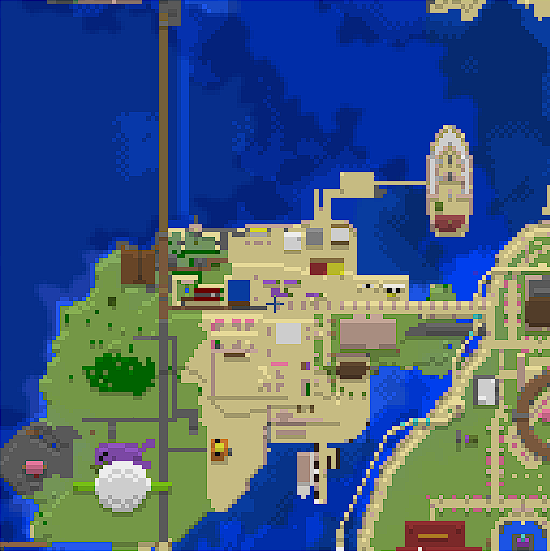
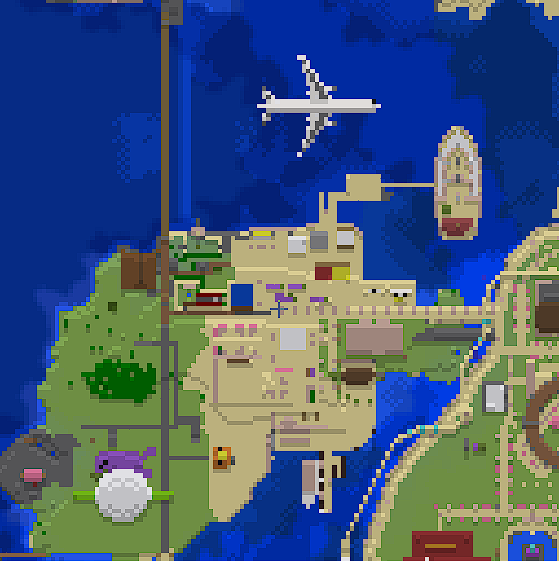
マップを更新

diff --git a/index.html b/index.html
@@ -58,7 +58,7 @@
     var mapVersion = "?ver=1"
     // マップの画像（事前に用意したスクショ画像）
     // 2枚のマップ画像を並べる
-    var image1 = L.imageOverlay('mapData/0_0.png?ver=1.1'+mapVersion, [[0, 0], [500, 500]]).addTo(map);
+    var image1 = L.imageOverlay('mapData/0_0.png?ver=1.2'+mapVersion, [[0, 0], [500, 500]]).addTo(map);
     var image2 = L.imageOverlay('mapData/0_1.png?ver=1.1'+mapVersion, [[0, 500], [500, 500 * 2]]).addTo(map);
     var image3 = L.imageOverlay('mapData/-1_0.png?ver=1.1'+mapVersion, [[-500, 0], [0, 500]]).addTo(map);
     var image4 = L.imageOverlay('mapData/-1_1.png?ver=1.1'+mapVersion, [[-500, 500], [0, 500 * 2]]).addTo(map);
@@ -202,8 +202,10 @@
     var marker56 = L.marker([1000, -2800]).addTo(map)
       .bindPopup('<h2>タマナシのやらかし見学ロード</h2><p>座標: -479 72 427<br>やらかし者: タマナシ</p><img style="width: 300px;" src="images/tamanashi_tnt.jpeg">');
     var marker57  = L.marker([600, -3200]).addTo(map)
-    .bindPopup('<h2>月玉の家</h2><p>座標: -681 63 645<br>制作者: 月玉</p><img style="width: 300px;" src="images/tsukitama_house.jpeg">');
-
+    .bindPopup('<h2>月玉農場</h2><p>座標: -681 63 645<br>制作者: 月玉</p><img style="width: 300px;" src="images/tsukitama_house.jpeg">');
+    var marker58   = L.marker([400, 300]).addTo(map)
+    .bindPopup('<h2>マセイモ航空 MASE-300YEN</h2><p>制作者: 塩ポテト君</p><img style="width: 300px;" src="images/imo_airplane.jpeg">');
+    
     // 線路用のレイヤーグループを作る
     var railwayLayer = L.layerGroup([]);
 
